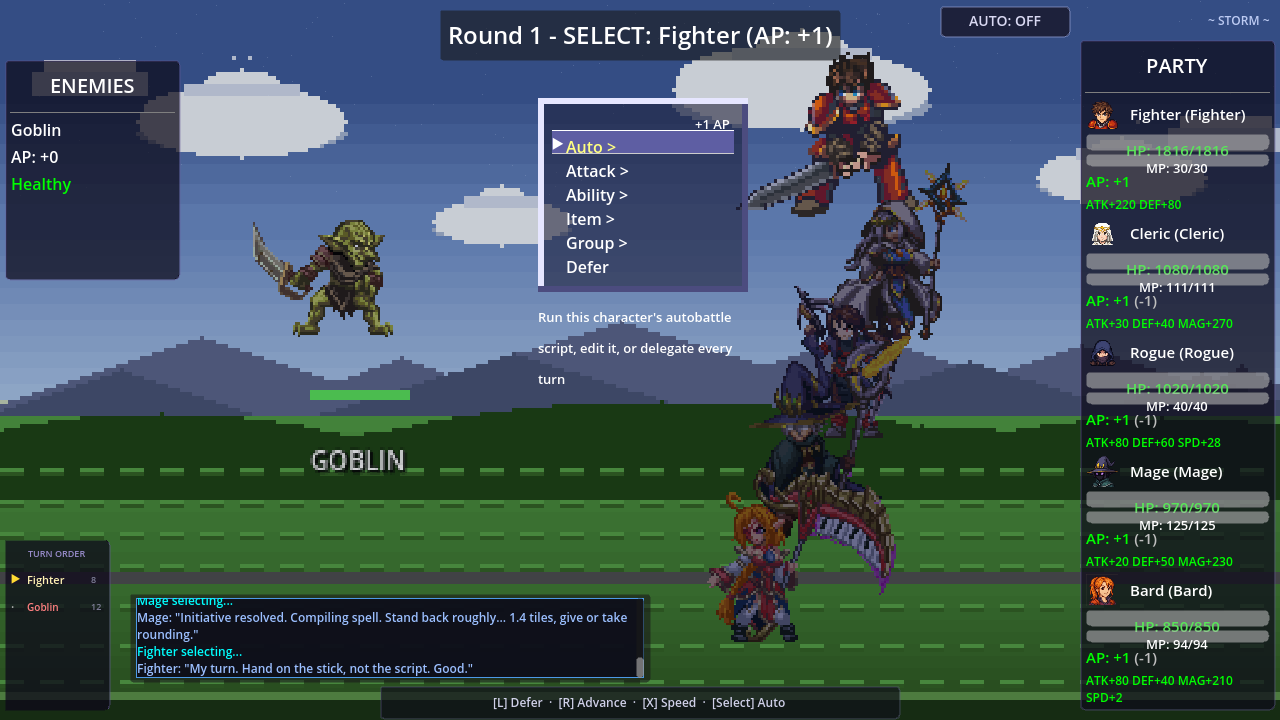
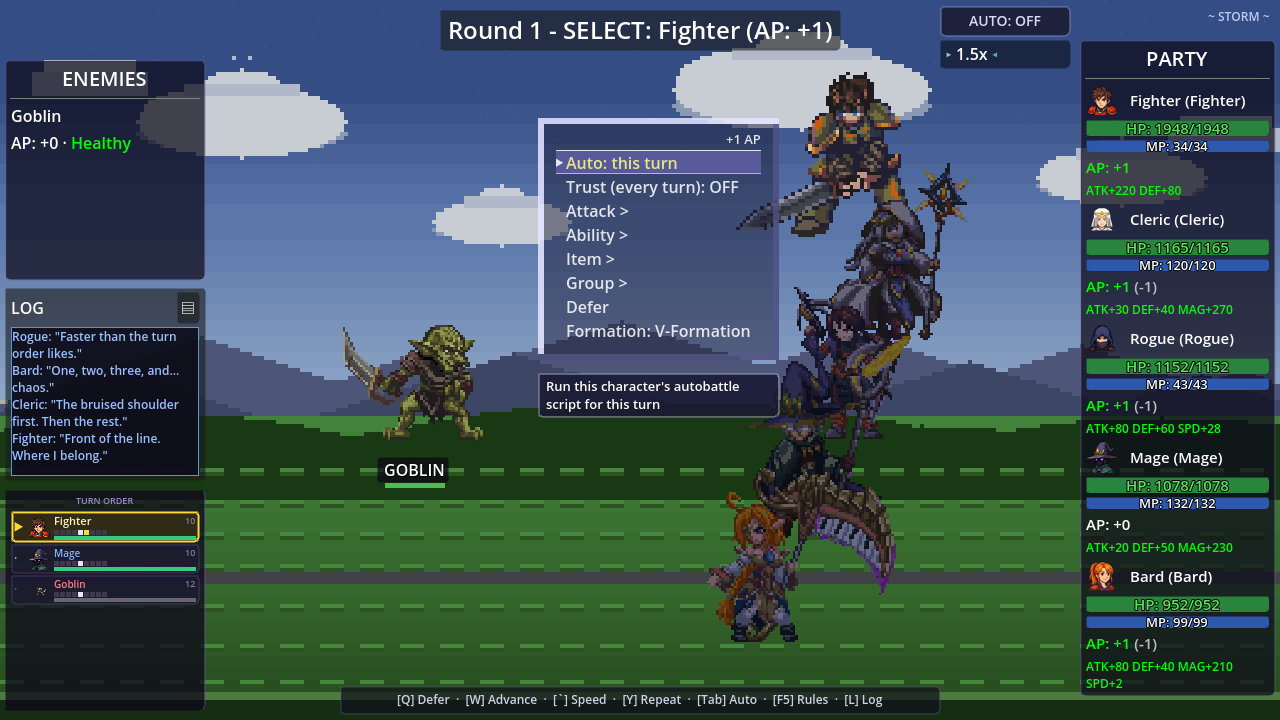
store assets: the rest of the set re-shot at v3.33.750-alpha, plus two current storm leads
The eight shipped frames outside marketing_shots.gd came from shots-225/293 and showed the
pre-.747 party (the squat fighter, where the game now draws the 48 px party in its world
costume) and the old HUD. Re-shot with the tools that made them, from the .750 publish's own
tree: store_shots_225.sh, store_shot_elite.sh (-- medieval prompt, -- steampunk; default offset
and zoom, as shipped) and a store_shot_storm.gd burst. Jailed + bounded via shot_sandbox; his
profile --sig before / --verify after all 9 runs: UNCHANGED. 0 SCRIPT ERROR.

Replaced by pixel delta vs shipped (noise from a second run): field_elite_steampunk 33.6%,
infernal_grotto_f3 31.2%, battle_storm 29.6% (HUD finally current), warren_wrap_field 21.8%,
warren_lever_portals 20.5%, field_elite_prompt_medieval 14.7%, field_elite_medieval 7.7% —
noise 0.00-0.80%. grimhollow_spiral replaced BY EYE: 11.2% vs 42.6% noise (this tool's village
path keeps camera smoothing), but the frame shows the 48 px party, a facade and the shops.

Lead image: .710's "settled frame 120" moved with the 1.5x default (now the VICTORY banner, HUD
zoomed off-edge), so re-measured on this burst: battle_storm.750-bolt.png (frame 50, the bolt
under the storm dim) and battle_storm.750-settled.png (frame 102, HUD whole, 1667 WEAK!) are in
unshipped-captures/. Which leads is struktured's call.

capture-history/shots-750/ archives all 12 before the swap. itch-assets is gitignored, so the 14
[…]

diff --git a/itch-assets/CAPTIONS.md b/itch-assets/CAPTIONS.md
@@ -606,3 +606,42 @@ pads       hidden by the jail (none connected anyway)
 
 **The store page itself is not updated by this commit:** itch screenshots are uploaded through the
 web UI, which is @struktured's.
+
+---
+
+## 2026-10-31 (later) — the rest of the set re-shot at `v3.33.750-alpha`, and a current storm for the lead
+
+The village refresh above covered `marketing_shots.gd`. The other eight shipped frames came from `shots-225`
+and `shots-293` and showed the **pre-.747 party** (the squat fighter where the game now draws the 48 px
+party in its world costume) and the old HUD. Re-shot with the tools that made them, from `<lane>/tmp/pub750`
+(the `.750` publish's own tree): `tools/store_shots_225.sh`, `tools/store_shot_elite.sh` (`-- medieval prompt`
+and `-- steampunk`, default offset and zoom, as the shipped frames were), and a `tools/store_shot_storm.gd` burst.
+
+| shot | vs shipped | noise | verdict |
+|---|---|---|---|
+| `field_elite_steampunk` | 33.59% | 0.06% | **REPLACED** — the current party leader, the boxed title banner, a labelled minimap |
+| `infernal_grotto_f3` | 31.24% | 0.00% | **REPLACED** |
+| `battle_storm` | 29.55% | 0.80% | **REPLACED** — the HUD is current at last: LOG panel, Trust + Formation in the menu, 1.5× speed, turn-order gauges, whole HP bars |
+| `warren_wrap_field` | 21.79% | 0.00% | **REPLACED** |
+| `warren_lever_portals` | 20.46% | 0.00% | **REPLACED** |
+| `field_elite_prompt_medieval` | 14.72% | 0.05% | **REPLACED** |
+| `grimhollow_spiral` | 11.22% | 42.64% | **REPLACED by eye** — the noise exceeds the change (this tool's village path keeps camera smoothing, so it lands a few px differently each run); the frame shows the 48 px party, a facade and the shops |
+| `field_elite_medieval` | 7.69% | 0.01% | **REPLACED** |
+
+`title_screen` is the one frame no tool reaches (it came from the exported `.483` binary).
+
+### The lead image — two CURRENT storm candidates, `unshipped-captures/`
+The `.710` analysis picked burst frame 120 as the clean one; at `.750` the timing moved (1.5× is now the
+default) and frame 120 is the VICTORY banner with the HUD zoomed off the left edge. Re-measured on this
+burst (HUD shift against frame 0 on the PARTY and ENEMIES headers; mean luma for the storm dim):
+- `battle_storm.750-bolt.png` — frame 50: the bolt striking the Goblin under the storm-darkened sky, arcs
+  across the party, "Mage uses Fulmen! … 1667 lightning damage" in the LOG. Mid-cinematic, so the HUD edges
+  are scaled out a little (deliberate battle juice).
+- `battle_storm.750-settled.png` — frame 102: the HUD whole (shift 0), `1667 WEAK!`, the bolt's trace, the
+  "WEAK to Lightning" tip in the LOG, Goblin DEFEATED. The storm dim has lifted by then.
+
+Which image leads (`battle_storm`, `battle`, or one of these) stays @struktured's call.
+
+**Capture conditions:** as the village section above, from `pub750` at `3cc6e9221`; pads hidden by the jail;
+his profile `--sig` before / `--verify` after every one of the 9 runs: UNCHANGED. The store page itself is
+@struktured's to update.

diff --git a/itch-assets/PROVENANCE.md b/itch-assets/PROVENANCE.md
@@ -285,3 +285,11 @@ file never got its own. At the same date the other nine shipped frames matched `
 any swap, with the villages framed on their buildings (see `CAPTIONS.md`'s 2026-10-31 section for the
 per-shot pixel deltas and conditions). Ten replaced the shipped frame; `battle` was kept (inside its own
 noise); `battle_advance` is archived only.
+
+## 2026-10-31 — `capture-history/shots-750/`
+
+The twelve `store_shots_225` + `store_shot_elite` captures at `v3.33.750-alpha`, archived WHOLESALE before
+the swap (including `brasston_lift`, `eldertree_canopy`, `infernal_grotto_f2`/`_f4`, never shipped). Eight
+replaced the shipped frame (deltas in `CAPTIONS.md`). Two storm-burst frames went to `unshipped-captures/` as
+`battle_storm.750-bolt.png` (frame 50) and `battle_storm.750-settled.png` (frame 102), lead candidates only.
+After this, every shipped frame except `title_screen` is from `shots-748` or `shots-750`.
